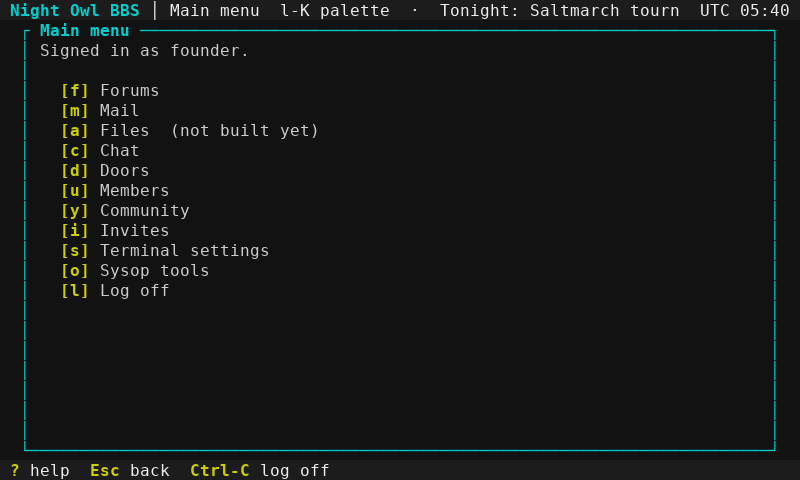
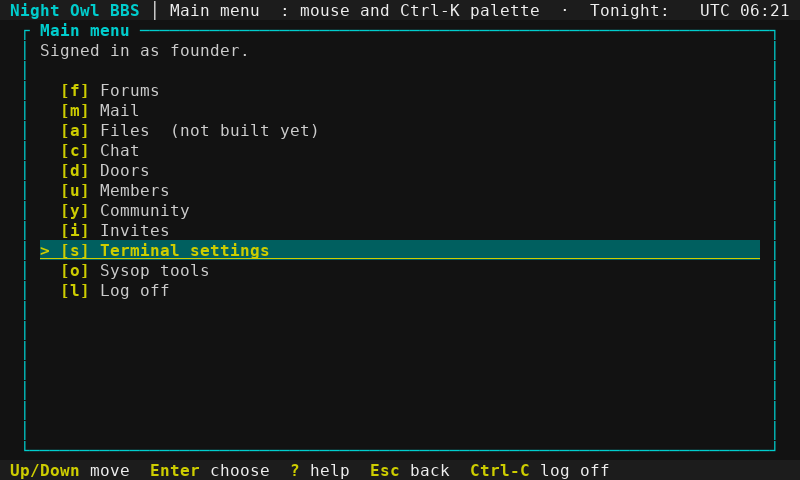
UI-9: walk results, screenshots and QA notes
Claude-Session: https://claude.ai/code/session_01HBFSy9Qgbp9oqchbtY4xr5

diff --git a/docs/qa/ui-9-walk.md b/docs/qa/ui-9-walk.md
@@ -1,0 +1,31 @@
+# UI-9 walk: mouse, palette, toast, ticker
+
+Real binary (`target/debug/russh-bbs-server`, scratch SQLite board, `[board]` name "Night Owl BBS" and `RUSSH_BBS_BOARD_TICKER` set through the environment) driven by the **real OpenSSH 9.6 client** and the **real `telnet` client** under a pty at 80x24 (`TERM=xterm-256color`, `COLORTERM=truecolor`), read through `pyte`. Mouse reports were written to the pty as an SGR-1006 terminal sends them. Founder claimed over ssh; the telnet session logged in with the founder's password.
+
+What the walk asserted (and the scripts stop if it is false):
+- ssh: the mouse is off until `[o]` in settings; the frame after it carries `ESC[?1000h ESC[?1006h`; a click on the "Terminal settings" row opens it; Ctrl-K opens the palette, typing narrows, Enter runs through the normal path; a click on the members row presses its digit and opens the profile; two wheel notches move the lightbar cursor two rows; on Ctrl-C the server sends `ESC[?1006l ESC[?1000l` **before** `ESC[?1049l`.
+- telnet: the same mouse-on bytes, a click opens the row, Ctrl-K opens the palette, and the mouse is turned off before the alternate screen is left. The `UNENCRYPTED` marker stays on the transport's own last row.
+
+Not walked: other terminal emulators, real mouse hardware (events were synthesized), Postgres-backed boards, the unread-mail toast, a forums table click (no boards exist on a fresh board; the table click is covered by `ui::table` and `ui::input` tests and the members table was clicked), the page-turning wheel in the reader.
+
+| Screenshot | What it shows |
+|---|---|
+| ![01-menu-mouse-off](../ui-screenshots/interaction/01-menu-mouse-off.png) | Main menu, mouse off (the default): a header ticker, no toast |
+| ![02-settings](../ui-screenshots/interaction/02-settings.png) | Settings: the member's mouse choice ([o]) |
+| ![03-mouse-on-toast](../ui-screenshots/interaction/03-mouse-on-toast.png) | [o] pressed: the client was told to report the mouse, and a toast says so |
+| ![04-before-click](../ui-screenshots/interaction/04-before-click.png) | Click target: the Terminal settings row |
+| ![05-after-click](../ui-screenshots/interaction/05-after-click.png) | The click opened the row, exactly as pressing [s] does |
+| ![06-palette](../ui-screenshots/interaction/06-palette.png) | Ctrl-K: the command palette over the menu (areas, settings pages, boards, doors the member may reach) |
+| ![07-palette-typed](../ui-screenshots/interaction/07-palette-typed.png) | Typing narrows it with a fuzzy match |
+| ![08-palette-ran](../ui-screenshots/interaction/08-palette-ran.png) | Enter ran the choice through the normal path: the members menu |
+| ![09-members-table](../ui-screenshots/interaction/09-members-table.png) | The members table: numbered rows are picked by their digit, so a click presses the row digit |
+| ![09b-members-click-target](../ui-screenshots/interaction/09b-members-click-target.png) | Click target: the founder row |
+| ![10-table-click](../ui-screenshots/interaction/10-table-click.png) | The click pressed the row's digit: the profile opened, as typing 1 does |
+| ![11-lightbar-before-wheel](../ui-screenshots/interaction/11-lightbar-before-wheel.png) | Lightbar layout: the cursor is on Terminal settings |
+| ![12-lightbar-after-wheel](../ui-screenshots/interaction/12-lightbar-after-wheel.png) | Two wheel notches moved the cursor down two rows (to Log off), like the Down key |
+| ![t01-menu](../ui-screenshots/interaction/t01-menu.png) | Telnet: the main menu (UNENCRYPTED marker on the transport's own last row) |
+| ![t02-mouse-on](../ui-screenshots/interaction/t02-mouse-on.png) | Telnet: the mouse setting turned on; the client is told to report it |
+| ![t03-click-target](../ui-screenshots/interaction/t03-click-target.png) | Click target |
+| ![t04-click-result](../ui-screenshots/interaction/t04-click-result.png) | Telnet: the click opened Terminal settings, the same as pressing [s] |
+| ![t05-palette](../ui-screenshots/interaction/t05-palette.png) | Telnet: Ctrl-K opens the palette (only what this telnet session may reach) |
+| ![t06-palette-typed](../ui-screenshots/interaction/t06-palette-typed.png) | Telnet: typed 'lay' |
